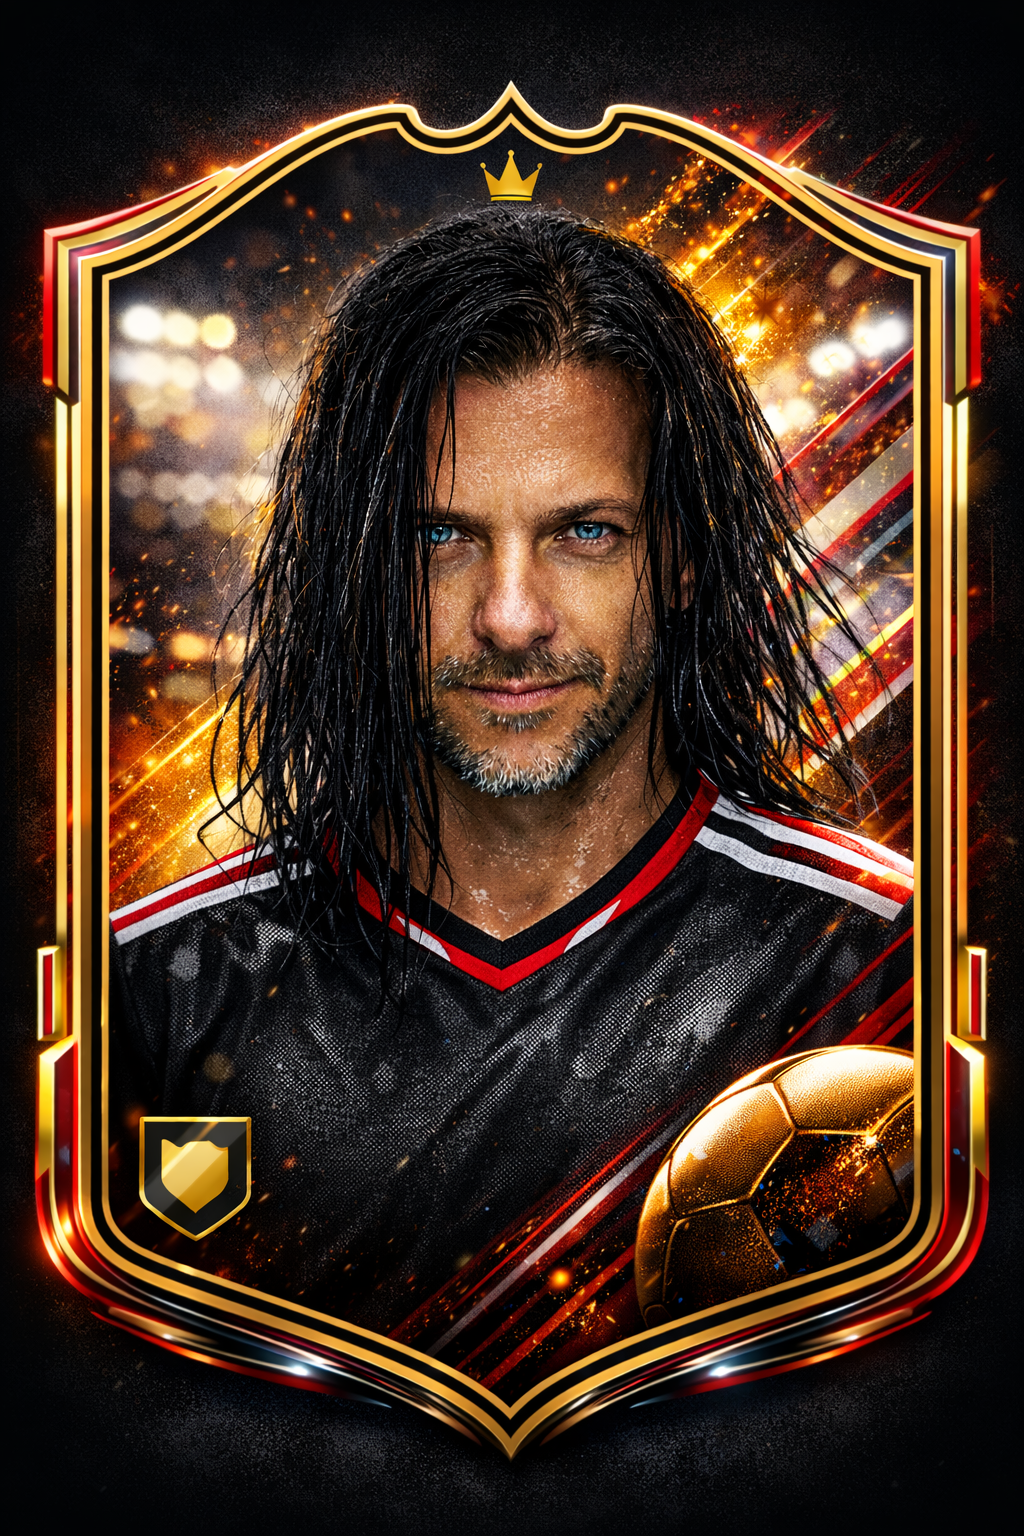
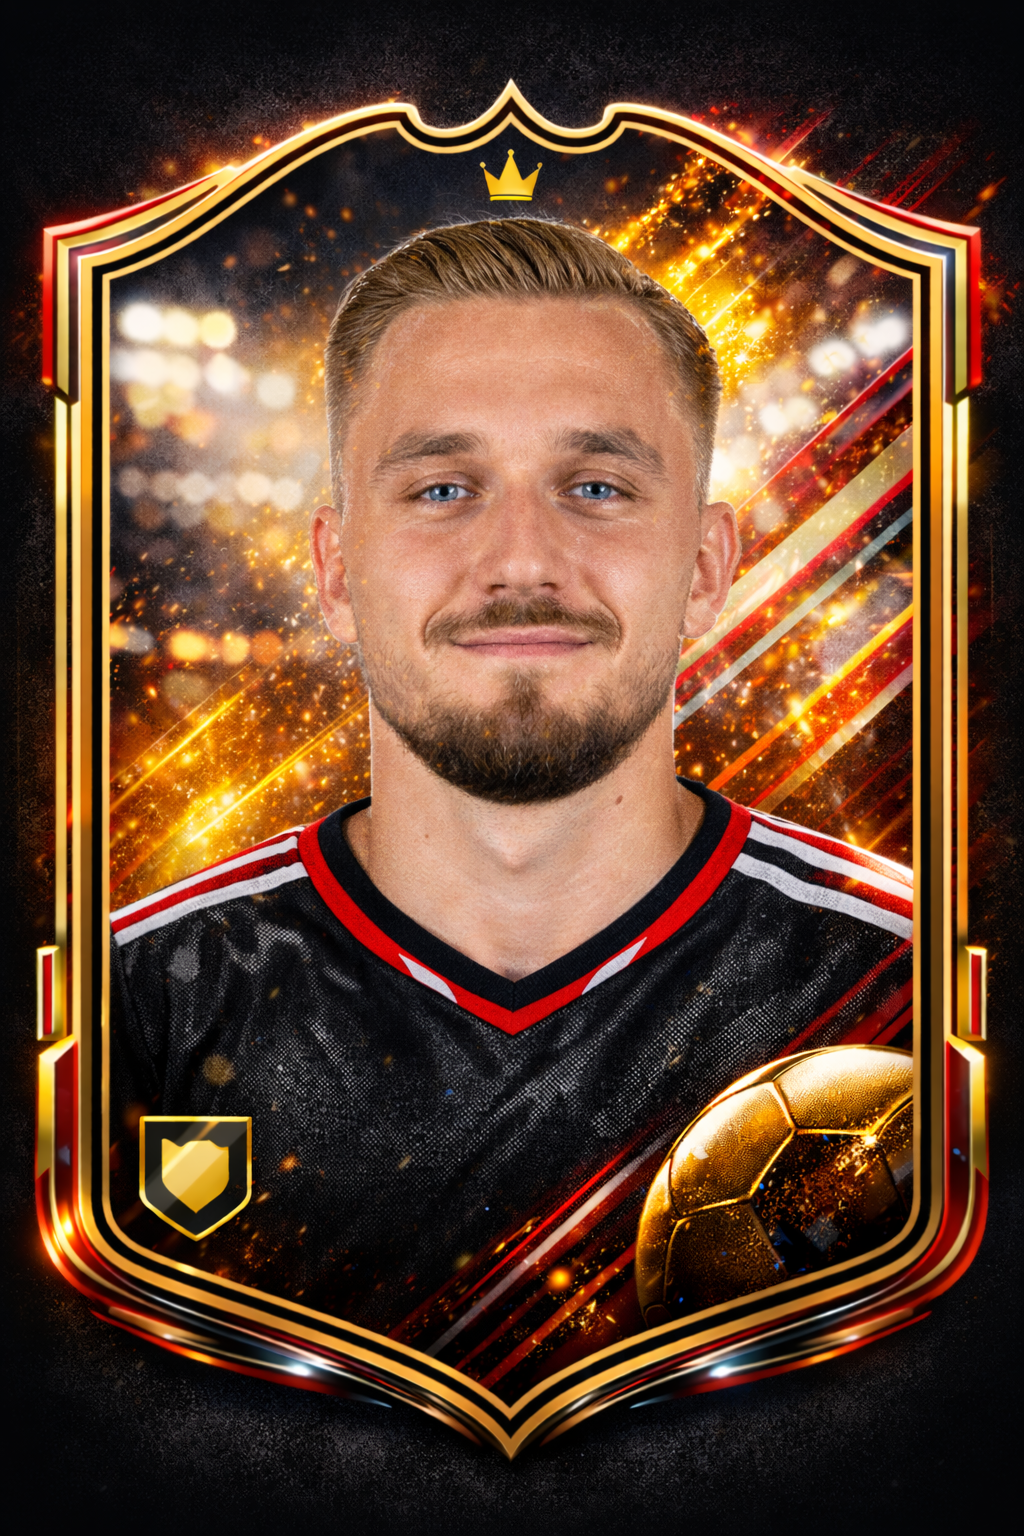
poprawki wizualne

diff --git a/components/views/SquadView.tsx b/components/views/SquadView.tsx
@@ -29,6 +29,47 @@ export const SquadView: React.FC = () => {
   const [isMotivationOpen, setIsMotivationOpen] = useState(false);
   const [activeTab, setActiveTab] = useState<'SQUAD' | 'MORALE'>('SQUAD');
 
+  const getAverageRatingBadgeClass = (rating: number | null): string => {
+    if (rating === null) return 'bg-slate-700 border-slate-500 text-slate-200';
+    if (rating < 6.0) return 'bg-red-600 border-red-400 text-white';
+    if (rating <= 6.9) return 'bg-orange-500 border-orange-300 text-white';
+    return 'bg-emerald-600 border-emerald-400 text-white';
+  };
+
+  const getPositionBadgeClass = (position: string): string => {
+    if (position === 'GK') return 'bg-yellow-500 border-yellow-300 text-slate-950 shadow-[0_0_16px_rgba(250,204,21,0.28)]';
+    if (['DEF', 'CB', 'LB', 'RB', 'LWB', 'RWB'].includes(position) || position.startsWith('DEF')) {
+      return 'bg-blue-600 border-blue-300 text-white shadow-[0_0_16px_rgba(59,130,246,0.28)]';
+    }
+    if (['MID', 'CM', 'CDM', 'CAM', 'LM', 'RM'].includes(position) || position.startsWith('MID')) {
+      return 'bg-emerald-600 border-emerald-300 text-white shadow-[0_0_16px_rgba(16,185,129,0.28)]';
+    }
+    return 'bg-red-600 border-red-300 text-white shadow-[0_0_16px_rgba(239,68,68,0.28)]';
+  };
+
+  const getPositionRowTintClass = (position: string): string => {
+    if (position === 'GK') return 'bg-yellow-500/[0.08] hover:bg-yellow-500/[0.12]';
+    if (['DEF', 'CB', 'LB', 'RB', 'LWB', 'RWB'].includes(position) || position.startsWith('DEF')) {
+      return 'bg-blue-500/[0.08] hover:bg-blue-500/[0.12]';
+    }
+    if (['MID', 'CM', 'CDM', 'CAM', 'LM', 'RM'].includes(position) || position.startsWith('MID')) {
+      return 'bg-emerald-500/[0.08] hover:bg-emerald-500/[0.12]';
+    }
+    return 'bg-red-500/[0.08] hover:bg-red-500/[0.12]';
+  };
+
+  const getPositionLabelClass = (label: string): string => {
+    if (label === 'SUB' || label === 'RES') return 'bg-slate-700/70 border-slate-500/50 text-slate-200';
+    if (label === 'GK') return 'bg-yellow-500/25 border-yellow-300/40 text-yellow-200';
+    if (['DEF', 'CB', 'LB', 'RB', 'LWB', 'RWB'].includes(label) || label.startsWith('DEF')) {
+      return 'bg-blue-500/25 border-blue-300/40 text-blue-200';
+    }
+    if (['MID', 'CM', 'CDM', 'CAM', 'LM', 'RM'].includes(label) || label.startsWith('MID')) {
+      return 'bg-emerald-500/25 border-emerald-300/40 text-emerald-200';
+    }
+    return 'bg-red-500/25 border-red-300/40 text-red-200';
+  };
+
   const getMoraleInfo = (morale: number): { label: string; color: string; barColor: string; bg: string; border: string; description: string } => {
     if (morale <= 20) return { label: 'BARDZO NISKIE', color: 'text-red-500', barColor: 'bg-red-500', bg: 'bg-red-500/10', border: 'border-red-500/30', description: 'Szatnia podzielona. Brak wiary w sukces. Każda porażka boli podwójnie — drużyna wchodzi na boisko bez przekonania.' };
     if (morale <= 35) return { label: 'NISKIE', color: 'text-orange-400', barColor: 'bg-orange-500', bg: 'bg-orange-500/10', border: 'border-orange-500/30', description: 'Nastroje wyraźnie przygnębione. Drużyna potrzebuje pozytywnego impulsu — wystarczy jedna wygrana, by odwrócić trend.' };
@@ -241,7 +282,10 @@ export const SquadView: React.FC = () => {
             ${isSelected ? 'bg-red-500/30 ring-2 ring-inset ring-red-500' : 'bg-red-500/5 hover:bg-red-500/10'}`}
         >
           <td className="pl-6 w-12 text-[10px] font-black text-red-500/50 uppercase tracking-tighter">{label}</td>
-          <td colSpan={4} className="px-4 text-[11px] font-black text-red-500 italic uppercase tracking-widest">
+          <td className="w-6 text-center text-slate-700">
+            <span className="inline-flex items-center justify-center text-[10px] font-black">→</span>
+          </td>
+          <td colSpan={7} className="px-4 text-[11px] font-black text-red-500 italic uppercase tracking-widest">
             &gt; SYSTEM_READY_FOR_DEPLOYMENT
           </td>
         </tr>
@@ -260,6 +304,9 @@ export const SquadView: React.FC = () => {
     const isSevereInjured = player.health.status === HealthStatus.INJURED && player.health.injury?.severity === InjurySeverity.SEVERE;
     const isOverfatigued = player.condition < 60;
     const isOutOfPosition = loc === 'START' && getPositionGroup(player.position) !== getPositionGroup(label);
+    const averageRating = player.stats?.ratingHistory?.length
+      ? player.stats.ratingHistory.reduce((a, b) => a + b, 0) / player.stats.ratingHistory.length
+      : null;
 
     return (
       <tr
@@ -268,14 +315,25 @@ export const SquadView: React.FC = () => {
         onDoubleClick={() => handlePlayerDoubleClick(player.id)}
         onContextMenu={(e) => { e.preventDefault(); setContextMenu({ x: e.clientX, y: e.clientY, playerId: player.id, loc }); }}
         className={`group relative h-14 border-b border-white/5 transition-all cursor-pointer
-          ${isSelected ? 'bg-blue-600/20 ring-1 ring-inset ring-blue-500 shadow-[0_0_20px_rgba(59,130,246,0.1)]' : isHighlighted ? 'bg-emerald-500/10 ring-1 ring-inset ring-emerald-400/60 shadow-[0_0_16px_rgba(52,211,153,0.15)]' : isOutOfPosition ? 'bg-amber-500/10 ring-1 ring-inset ring-amber-500/40' : 'hover:bg-white/[0.03]'}
+          ${isSelected ? 'bg-blue-600/20 ring-1 ring-inset ring-blue-500 shadow-[0_0_20px_rgba(59,130,246,0.1)]' : isHighlighted ? 'bg-emerald-500/10 ring-1 ring-inset ring-emerald-400/60 shadow-[0_0_16px_rgba(52,211,153,0.15)]' : isOutOfPosition ? 'bg-red-950/30 ring-2 ring-inset ring-red-500 shadow-[0_0_18px_rgba(239,68,68,0.2)]' : getPositionRowTintClass(player.position)}
           ${(isSuspended || isSevereInjured || isOverfatigued) ? 'opacity-30 grayscale' : ''}`}
       >
         <td className="pl-6 w-12 relative z-10">
-           <span className="text-[10px] font-black text-slate-500 uppercase tracking-tighter">{label}</span>
+           <span className={`inline-flex h-6 w-6 items-center justify-center rounded-md border text-[8px] font-black uppercase tracking-tight ${getPositionLabelClass(label)}`}>
+             {label}
+           </span>
         </td>
-        <td className={`w-14 font-mono font-black text-[11px] relative z-10 ${PlayerPresentationService.getPositionColorClass(player.position)}`}>
-          {player.position}
+        <td className="w-6 relative z-10 text-center">
+          <span className="inline-flex items-center justify-center text-slate-500/80">
+            <svg viewBox="0 0 16 16" className="h-3 w-3" fill="none" aria-hidden="true">
+              <path d="M3 8h8m0 0-3-3m3 3-3 3" stroke="currentColor" strokeWidth="1.5" strokeLinecap="round" strokeLinejoin="round" />
+            </svg>
+          </span>
+        </td>
+        <td className="w-14 relative z-10">
+          <span className={`inline-flex h-8 min-w-[32px] items-center justify-center rounded-full border px-1.5 font-mono text-[9px] font-black leading-none tracking-tight ${getPositionBadgeClass(player.position)}`}>
+            {player.position}
+          </span>
         </td>
         <td className="relative z-10 w-52">
            <div className="flex items-center gap-3">
@@ -367,11 +425,8 @@ export const SquadView: React.FC = () => {
 
 {/* TUTAJ WSTAW TEN KOD - Kolumna średniej oceny w wierszu */}
      <td className="w-16 text-center relative z-10">
-           <span className="text-sm font-black text-blue-400 font-mono italic">
-            
-              {player.stats?.ratingHistory?.length > 0 
-                ? (player.stats.ratingHistory.reduce((a, b) => a + b, 0) / player.stats.ratingHistory.length).toFixed(1)
-                : '-'}
+           <span className={`inline-flex min-w-[44px] items-center justify-center rounded-md border px-2 py-1 text-sm font-black font-mono italic ${getAverageRatingBadgeClass(averageRating)}`}>
+              {averageRating !== null ? averageRating.toFixed(1) : '-'}
            </span>
         </td>
 
@@ -687,6 +742,7 @@ export const SquadView: React.FC = () => {
                     <thead>
                       <tr className="border-b border-white/5 bg-white/[0.02]">
                         <th className="pl-6 w-12 py-2" />
+                        <th className="w-6 py-2" />
                         <th className="w-14 py-2" />
                         <th className="w-52 py-2">
                           <span className="text-[8px] font-black uppercase tracking-[0.3em] text-slate-500">Zawodnik</span>
@@ -736,6 +792,7 @@ export const SquadView: React.FC = () => {
                     <thead>
                       <tr>
                         <th className="pl-6 w-12" />
+                        <th className="w-6" />
                         <th className="w-14" />
                         <th className="w-52" />
                         <th className="px-2 w-36" />
@@ -754,7 +811,7 @@ export const SquadView: React.FC = () => {
                     <tbody className="divide-y divide-white/[0.03]">
                       {benchPlayers.map(pid => renderPlayerRow(pid, 'SUB', 'BENCH'))}
                       {benchPlayers.length === 0 && (
-                        <tr><td className="py-10 text-center opacity-10 font-black uppercase italic text-xs tracking-widest">Pusta Ławka</td></tr>
+                        <tr><td colSpan={9} className="py-10 text-center opacity-10 font-black uppercase italic text-xs tracking-widest">Pusta Ławka</td></tr>
                       )}
                     </tbody>
                  </table>
@@ -772,6 +829,7 @@ export const SquadView: React.FC = () => {
                     <thead>
                       <tr>
                         <th className="pl-6 w-12" />
+                        <th className="w-6" />
                         <th className="w-14" />
                         <th className="w-52" />
                         <th className="px-2 w-36" />
@@ -790,7 +848,7 @@ export const SquadView: React.FC = () => {
                     <tbody className="divide-y divide-white/[0.03]">
                       {reservePlayersSorted.map(pid => renderPlayerRow(pid, 'RES', 'RES'))}
                       {reservePlayersSorted.length === 0 && (
-                        <tr><td className="py-10 text-center opacity-10 font-black uppercase italic text-xs tracking-widest">Brak zawodników</td></tr>
+                        <tr><td colSpan={9} className="py-10 text-center opacity-10 font-black uppercase italic text-xs tracking-widest">Brak zawodników</td></tr>
                       )}
                     </tbody>
                  </table>

diff --git a/components/views/LeagueStatsView.tsx b/components/views/LeagueStatsView.tsx
@@ -1,10 +1,16 @@
 import React, { useMemo, useState } from 'react';
 import { useGame } from '../../context/GameContext';
-import { LeagueLevel, ViewState } from '../../types';
+import { ViewState } from '../../types';
 import { LeagueStatsService } from '../../services/LeagueStatsService';
 import { PlayerPresentationService } from '../../services/PlayerPresentationService';
 
 type StatTab = 'SCORERS' | 'ASSISTS' | 'YELLOW_CARDS' | 'RED_CARDS' | 'INJURIES';
+type LeagueTab = {
+  id: string;
+  label: string;
+  title: string;
+  accent: string;
+};
 
 const STAT_TABS: Array<{ id: StatTab; label: string; icon: string }> = [
   { id: 'SCORERS', label: 'STRZELCY', icon: '\u26bd' },
@@ -14,10 +20,19 @@ const STAT_TABS: Array<{ id: StatTab; label: string; icon: string }> = [
   { id: 'INJURIES', label: 'SZPITAL', icon: '+' },
 ];
 
-export const LeagueStatsView: React.FC = () => {
-  const { leagues, clubs, players, navigateTo, viewPlayerDetails } = useGame();
+const LEAGUE_TABS: LeagueTab[] = [
+  { id: 'L_PL_1', label: 'EKST', title: 'Ekstraklasa', accent: '#fbbf24' },
+  { id: 'L_PL_2', label: '1 L', title: '1 Liga', accent: '#3b82f6' },
+  { id: 'L_PL_3', label: '2 L', title: '2 Liga', accent: '#10b981' },
+  { id: 'L_CL', label: 'CHAMPIONS LEAGUE', title: 'Champions League', accent: '#f59e0b' },
+  { id: 'L_EL', label: 'EUROPE LEAGUE', title: 'Europe League', accent: '#f97316' },
+  { id: 'L_CONF', label: 'CONF LEAGUE', title: 'Conf League', accent: '#22c55e' },
+];
 
-  const displayLeagues = leagues.filter((league) => league.level !== LeagueLevel.TIER_4_HIDDEN);
+export const LeagueStatsView: React.FC = () => {
+  const { clubs, players, navigateTo, viewPlayerDetails } = useGame();
+
+  const displayLeagues = useMemo(() => LEAGUE_TABS, []);
   const [selectedLeagueId, setSelectedLeagueId] = useState<string>(displayLeagues[0]?.id || 'L_PL_1');
   const [activeTab, setActiveTab] = useState<StatTab>('SCORERS');
 
@@ -27,10 +42,8 @@ export const LeagueStatsView: React.FC = () => {
   );
 
   const leagueColor = useMemo(() => {
-    if (selectedLeagueId === 'L_PL_1') return '#fbbf24';
-    if (selectedLeagueId === 'L_PL_2') return '#3b82f6';
-    return '#10b981';
-  }, [selectedLeagueId]);
+    return selectedLeague?.accent || '#fbbf24';
+  }, [selectedLeague]);
 
   const statsData = useMemo(() => {
     const rawData = LeagueStatsService.getPlayersForLeague(selectedLeagueId, clubs, players);
@@ -83,7 +96,7 @@ export const LeagueStatsView: React.FC = () => {
             </h1>
             <div className="mt-1.5 flex items-center gap-3">
               <span className="text-[10px] font-black uppercase tracking-[0.3em]" style={{ color: leagueColor }}>
-                {selectedLeague?.name.toUpperCase()}
+                {selectedLeague?.title}
               </span>
               <span className="h-1 w-1 rounded-full bg-white/20" />
               <span className="text-[10px] font-black uppercase tracking-[0.3em] text-slate-500">
@@ -105,7 +118,7 @@ export const LeagueStatsView: React.FC = () => {
                     : 'text-slate-500 hover:bg-white/5 hover:text-slate-300'
                 }`}
               >
-                {league.name.replace('Polish League ', '')}
+                {league.label}
               </button>
             ))}
           </div>

diff --git a/services/BackgroundMatchProcessorCL.ts b/services/BackgroundMatchProcessorCL.ts
@@ -58,6 +58,8 @@ interface CLMatchResult {
   substitutions: { playerOutName: string; playerInName: string; minute: number; teamId: string }[];
   updatedHomePlayers: Player[];
   updatedAwayPlayers: Player[];
+  participatingHomePlayerIds: string[];
+  participatingAwayPlayerIds: string[];
   fatigueMap: Record<string, number>;
   fatigueDebtMap: Record<string, number>;
   injuryPenaltyMap: Record<string, number>;
@@ -643,6 +645,8 @@ const simulateCLMatchFull = (
     substitutions: [...homeSubs, ...awaySubs],
     updatedHomePlayers: homeCardData.updatedPlayers,
     updatedAwayPlayers: awayCardData.updatedPlayers,
+    participatingHomePlayerIds: homeSubData.allPlayedIds,
+    participatingAwayPlayerIds: awaySubData.allPlayedIds,
     fatigueMap,
     fatigueDebtMap,
     injuryPenaltyMap,
@@ -868,6 +872,17 @@ export const BackgroundMatchProcessorCL = {
       };
 
       // ── Kartki → statystyki i zawieszenia (jak w BackgroundMatchProcessor) ─
+      updatedPlayersMap = PlayerStatsService.processMatchDayEndForClub(
+        updatedPlayersMap,
+        home.id,
+        result.participatingHomePlayerIds
+      );
+      updatedPlayersMap = PlayerStatsService.processMatchDayEndForClub(
+        updatedPlayersMap,
+        away.id,
+        result.participatingAwayPlayerIds
+      );
+
       result.cards.forEach(card => {
         const eventType = card.type === 'RED' || card.type === 'SECOND_YELLOW'
           ? MatchEventType.RED_CARD

diff --git a/constants.ts b/constants.ts
@@ -102,6 +102,8 @@ export const STATIC_LEAGUES: League[] = [
   { id: 'L_PL_3', name: 'Polish League 3', level: LeagueLevel.TIER_3, teamIds: [] },
   { id: 'L_PL_4', name: 'Regional League', level: LeagueLevel.TIER_4_HIDDEN, teamIds: [] },
   { id: 'L_CL', name: 'UEFA Champions League', level: LeagueLevel.EUROPEAN, teamIds: [] },
+  { id: 'L_EL', name: 'UEFA Europa League', level: LeagueLevel.EUROPEAN, teamIds: [] },
+  { id: 'L_CONF', name: 'UEFA Conference League', level: LeagueLevel.EUROPEAN, teamIds: [] },
 ];
 
 // 2. Club Loading Logic (Stage 4)
@@ -369,7 +371,7 @@ export const UNEMPLOYED_MANAGER_CLUB: Club = {
 
 // Populate league teamIds (Only include active teams in the league structure)
 STATIC_LEAGUES.forEach(l => {
-  l.teamIds = STATIC_CLUBS
+  l.teamIds = [...STATIC_CLUBS, ...STATIC_CL_CLUBS, ...STATIC_EL_CLUBS, ...STATIC_CONF_CLUBS]
     .filter(c => c.leagueId === l.id && c.isDefaultActive)
     .map(c => c.id);
 });